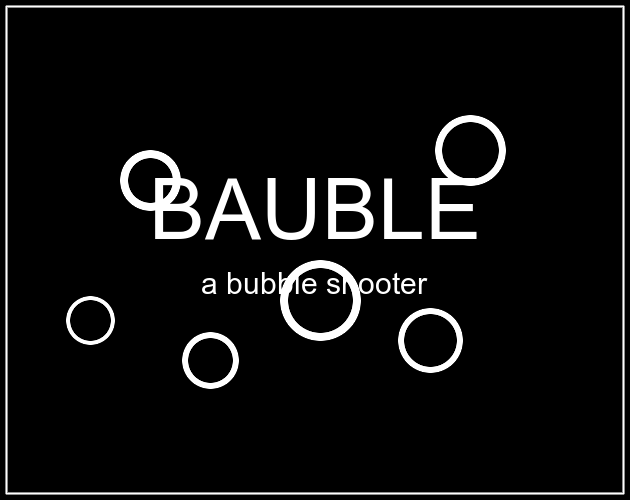
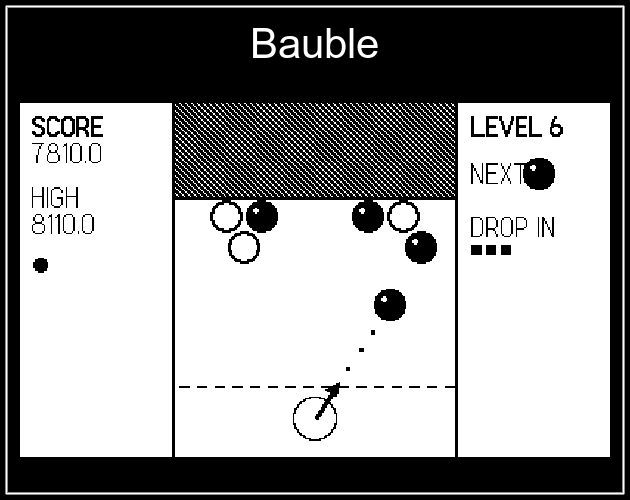
Add gameplay screenshot to README and real cover art

diff --git a/README.md b/README.md
@@ -6,6 +6,8 @@ matching bubbles before the ceiling presses down on you. An original take on the
 aim-and-pop bubble-puzzle genre, with fully procedural 1-bit art (the six bubble
 types are told apart by **pattern**, not colour — no external assets).
 
+![Bauble](screenshot.png)
+
 See the **[player's manual](MANUAL.md)** for the full rules, scoring, and tips.
 
 ## Play it